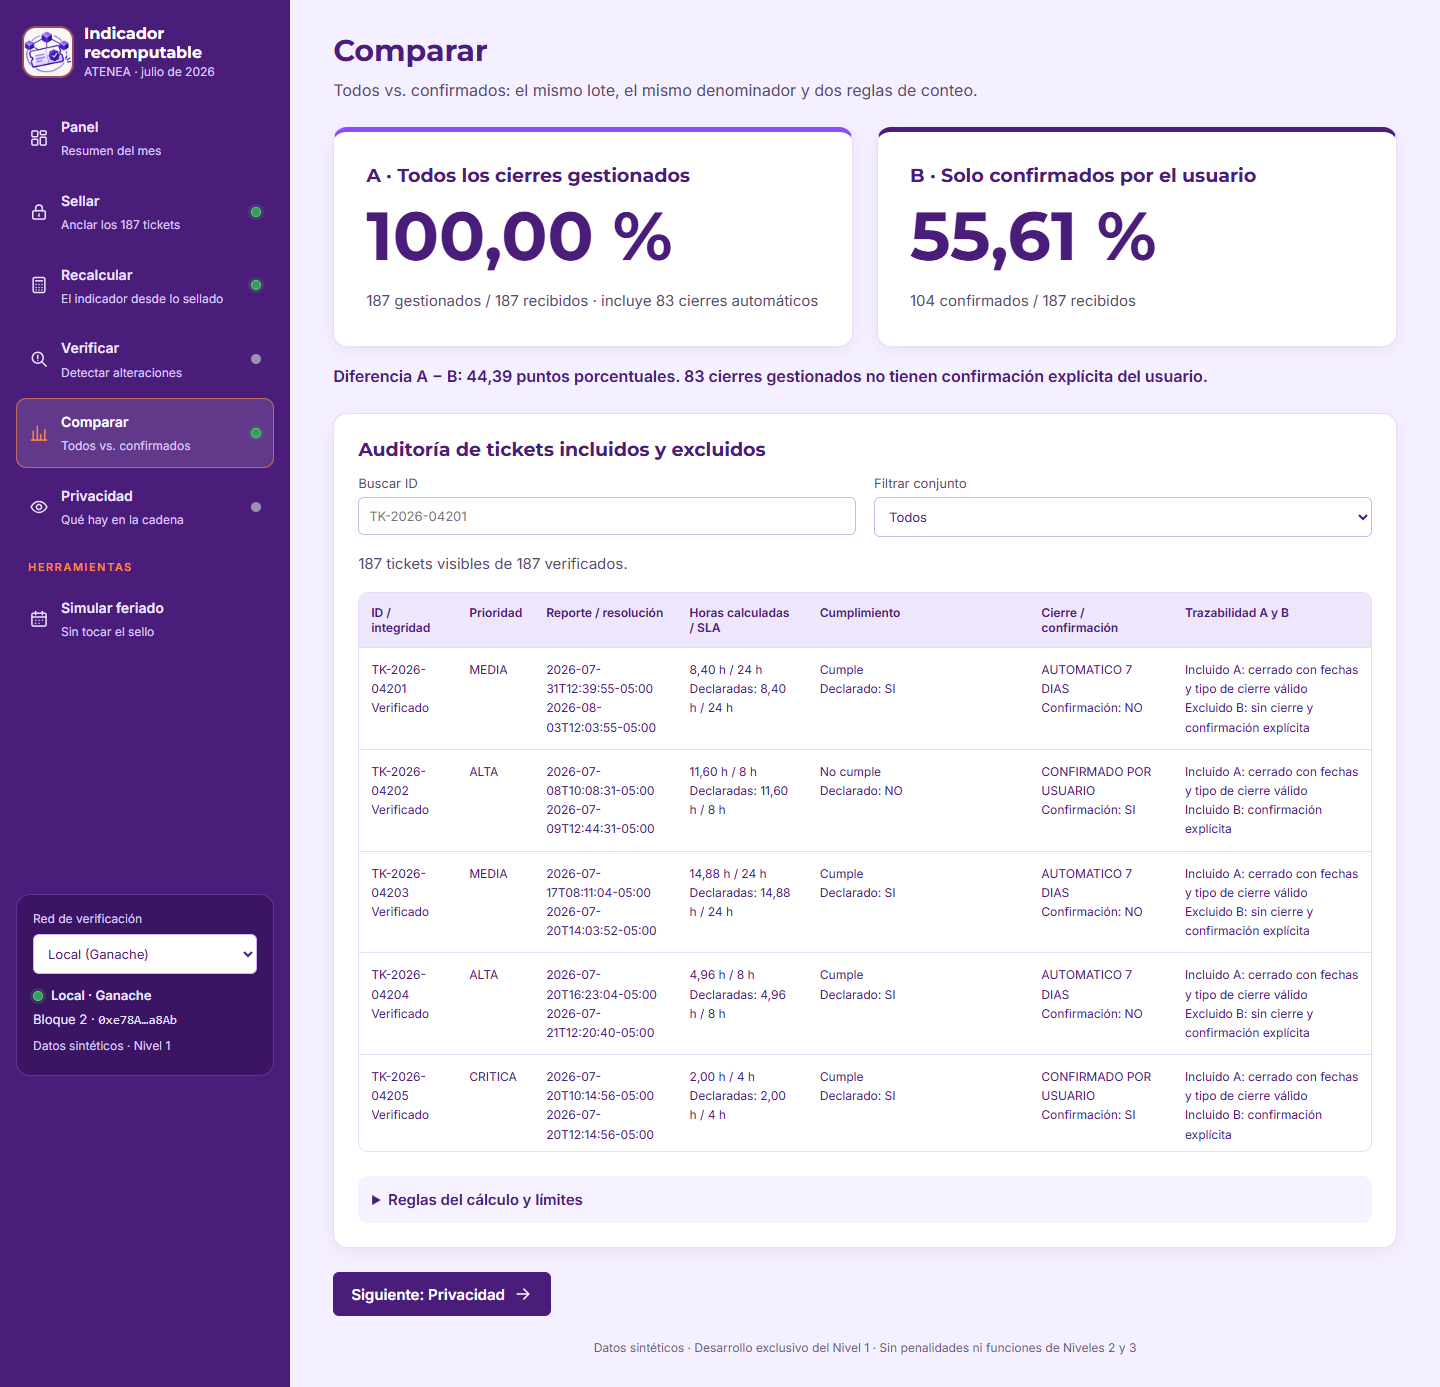
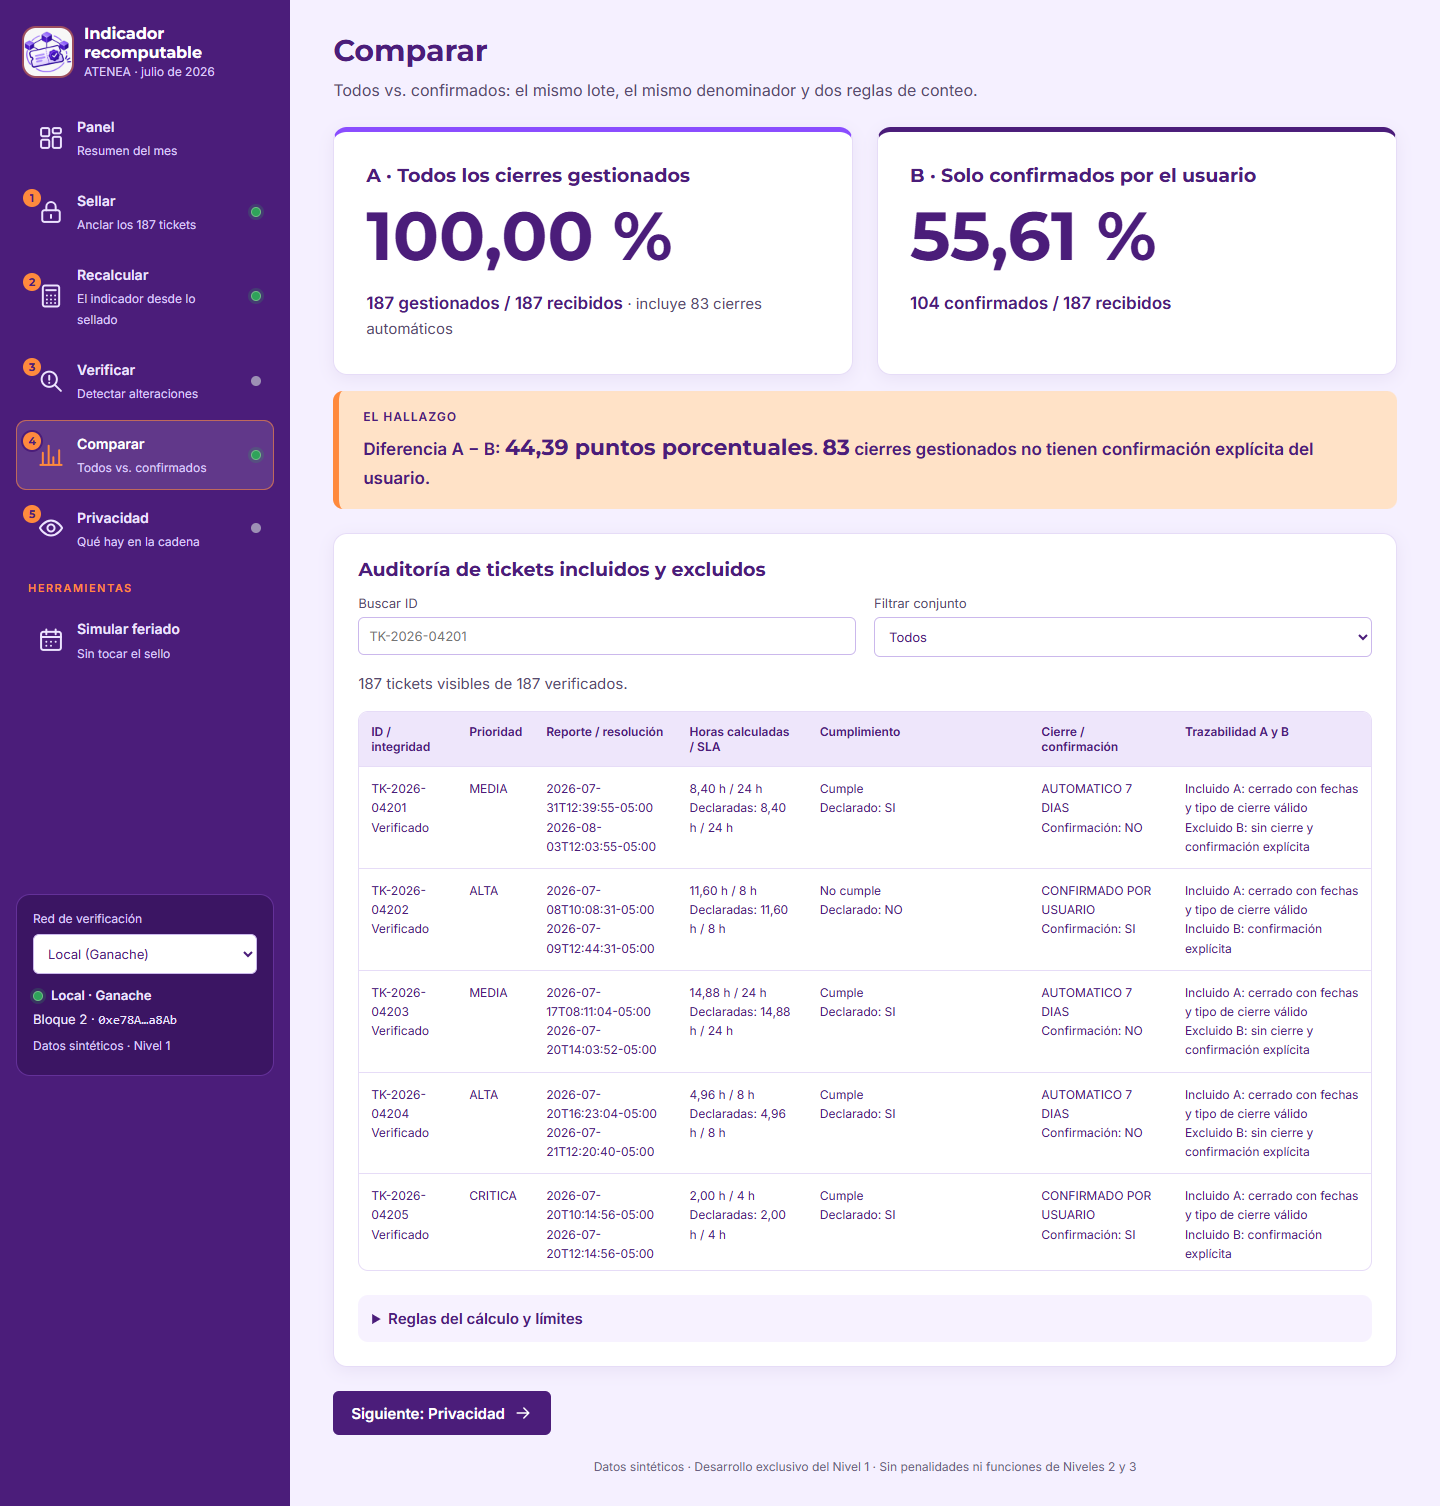
Fase 3B: demo guiada por los 5 criterios del jurado
- Menú: números 1-5 en los procesos e íconos SVG más grandes que el texto.
- Recalcular: veredicto «no da 98,25 %» con 55,61 % (104/187) y 100 % (187/187),
  todo calculado desde lo sellado (renderFindings), nada escrito a mano.
- Comparar: la brecha de 44,39 pp destacada como «el hallazgo»; fracciones en negrita.
- Privacidad: veredicto 0 usuarios / 0 técnicos / 0 contenido de ticket, a partir de
  la búsqueda real y de los 7 datos que guarda la cadena. «Consultar contrato» pasa a secundario.
- Panel: guion de 5 pasos con textos cortos; la nota pendiente dice qué pulsar.
- Plegables: «Respaldo del sello» (botón renombrado a «Descargar respaldo del sellado»)
  y «Verificar desde otro equipo» (evidencia y sal). Sin cambios de id ni de lógica.
- Auditoría en nivel1-v5-auditoria: 1, 2, 4 y 5 APROBADO; 3 aprobado en automático,
  pendiente de la edición manual.

diff --git a/src/index.html b/src/index.html
@@ -47,11 +47,11 @@
   <nav aria-label="Procesos de la demostración">
     <ul class="menu">
       <li><a href="#/panel" data-route="panel"><svg class="icon"><use href="#i-panel"/></svg><span class="item"><strong>Panel</strong><small>Resumen del mes</small></span></a></li>
-      <li><a href="#/sellar" data-route="sellar"><svg class="icon"><use href="#i-lock"/></svg><span class="item"><strong>Sellar</strong><small>Anclar los 187 tickets</small></span><span class="dot" data-dot="sellar" role="img" aria-label="Estado: pendiente"></span></a></li>
-      <li><a href="#/recalcular" data-route="recalcular"><svg class="icon"><use href="#i-calc"/></svg><span class="item"><strong>Recalcular</strong><small>El indicador desde lo sellado</small></span><span class="dot" data-dot="recalcular" role="img" aria-label="Estado: pendiente"></span></a></li>
-      <li><a href="#/verificar" data-route="verificar"><svg class="icon"><use href="#i-search"/></svg><span class="item"><strong>Verificar</strong><small>Detectar alteraciones</small></span><span class="dot" data-dot="verificar" role="img" aria-label="Estado: pendiente"></span></a></li>
-      <li><a href="#/comparar" data-route="comparar"><svg class="icon"><use href="#i-compare"/></svg><span class="item"><strong>Comparar</strong><small>Todos vs. confirmados</small></span><span class="dot" data-dot="comparar" role="img" aria-label="Estado: pendiente"></span></a></li>
-      <li><a href="#/privacidad" data-route="privacidad"><svg class="icon"><use href="#i-eye"/></svg><span class="item"><strong>Privacidad</strong><small>Qué hay en la cadena</small></span><span class="dot" data-dot="privacidad" role="img" aria-label="Estado: pendiente"></span></a></li>
+      <li><a href="#/sellar" data-route="sellar"><span class="menu-ico"><svg class="icon"><use href="#i-lock"/></svg><span class="menu-num" aria-hidden="true">1</span></span><span class="item"><strong>Sellar</strong><small>Anclar los 187 tickets</small></span><span class="dot" data-dot="sellar" role="img" aria-label="Estado: pendiente"></span></a></li>
+      <li><a href="#/recalcular" data-route="recalcular"><span class="menu-ico"><svg class="icon"><use href="#i-calc"/></svg><span class="menu-num" aria-hidden="true">2</span></span><span class="item"><strong>Recalcular</strong><small>El indicador desde lo sellado</small></span><span class="dot" data-dot="recalcular" role="img" aria-label="Estado: pendiente"></span></a></li>
+      <li><a href="#/verificar" data-route="verificar"><span class="menu-ico"><svg class="icon"><use href="#i-search"/></svg><span class="menu-num" aria-hidden="true">3</span></span><span class="item"><strong>Verificar</strong><small>Detectar alteraciones</small></span><span class="dot" data-dot="verificar" role="img" aria-label="Estado: pendiente"></span></a></li>
+      <li><a href="#/comparar" data-route="comparar"><span class="menu-ico"><svg class="icon"><use href="#i-compare"/></svg><span class="menu-num" aria-hidden="true">4</span></span><span class="item"><strong>Comparar</strong><small>Todos vs. confirmados</small></span><span class="dot" data-dot="comparar" role="img" aria-label="Estado: pendiente"></span></a></li>
+      <li><a href="#/privacidad" data-route="privacidad"><span class="menu-ico"><svg class="icon"><use href="#i-eye"/></svg><span class="menu-num" aria-hidden="true">5</span></span><span class="item"><strong>Privacidad</strong><small>Qué hay en la cadena</small></span><span class="dot" data-dot="privacidad" role="img" aria-label="Estado: pendiente"></span></a></li>
     </ul>
     <p class="menu-sep">Herramientas</p>
     <ul class="menu">
@@ -75,18 +75,18 @@
   <p id="headline" class="headline"><span class="hl-side"><span class="hl-label">Publicado</span> <strong class="hl-num">98,25 %</strong></span><span class="hl-vs"> · </span><span class="hl-side hl-b"><span class="hl-label">Solo confirmados por el usuario:</span> <strong class="hl-num hl-pending">pendiente de verificación</strong></span></p>
   <div class="stats">
     <article class="card stat"><h2>Estado del sello</h2><p class="stat-value" id="sumSeal">Sin sello</p><p class="hashline"><span id="sumSealTx" class="hash">—</span><button class="copy" type="button" data-ui data-copy="sumSealTx" aria-label="Copiar transacción del sello"><svg class="icon"><use href="#i-copy"/></svg></button></p></article>
-    <article class="card stat"><h2>Última verificación</h2><p class="stat-value"><span id="sumVerify" class="pill gray">Pendiente</span></p><p class="small" id="sumVerifyNote">Todavía no se verificó en esta sesión.</p></article>
+    <article class="card stat"><h2>Última verificación</h2><p class="stat-value"><span id="sumVerify" class="pill gray">Pendiente</span></p><p class="small" id="sumVerifyNote">Pulsa «Recalcular desde lo sellado» en el paso 2.</p></article>
     <article class="card stat"><h2>Tickets sellados</h2><p class="stat-value" id="sumCount">—</p><p class="small">Cantidad registrada en la cadena.</p></article>
     <article class="card stat"><h2>Brecha A − B</h2><p class="stat-value" id="sumGap">—</p><p class="small">Puntos porcentuales entre todos los cierres y los confirmados.</p></article>
   </div>
   <div class="card">
     <h2>Guion de la demo</h2>
     <ol id="demoScript" class="script">
-      <li data-step="1"><span class="check" role="img" aria-label="Pendiente"><svg class="icon"><use href="#i-check"/></svg></span><span><a href="#/sellar">Sellar los 187 tickets</a><small>Cargar los originales y anclar el compromiso en la cadena.</small></span></li>
-      <li data-step="2"><span class="check" role="img" aria-label="Pendiente"><svg class="icon"><use href="#i-check"/></svg></span><span><a href="#/recalcular">Recalcular el indicador</a><small>Desde lo sellado: cascada 187 → 171, bitácora y reaperturas.</small></span></li>
-      <li data-step="3"><span class="check" role="img" aria-label="Pendiente"><svg class="icon"><use href="#i-check"/></svg></span><span><a href="#/verificar">Detectar una alteración</a><small>Un CSV editado da ROJO con el ticket y el campo.</small></span></li>
-      <li data-step="4"><span class="check" role="img" aria-label="Pendiente"><svg class="icon"><use href="#i-check"/></svg></span><span><a href="#/comparar">Comparar A contra B</a><small>Todos los cierres frente a los confirmados por el usuario.</small></span></li>
-      <li data-step="5"><span class="check" role="img" aria-label="Pendiente"><svg class="icon"><use href="#i-check"/></svg></span><span><a href="#/privacidad">Revisar la privacidad</a><small>Buscar datos personales en la cadena: 0 coincidencias.</small></span></li>
+      <li data-step="1"><span class="check" role="img" aria-label="Pendiente"><svg class="icon"><use href="#i-check"/></svg></span><span><a href="#/sellar">Sellar julio</a><small>Los <strong>187</strong> tickets quedan anclados en la blockchain.</small></span></li>
+      <li data-step="2"><span class="check" role="img" aria-label="Pendiente"><svg class="icon"><use href="#i-check"/></svg></span><span><a href="#/recalcular">Recalcular</a><small>Desde lo sellado: <strong>no da 98,25 %</strong>.</small></span></li>
+      <li data-step="3"><span class="check" role="img" aria-label="Pendiente"><svg class="icon"><use href="#i-check"/></svg></span><span><a href="#/verificar">Detectar una alteración</a><small>Un CSV editado a mano da <strong>ROJO</strong> y señala el ticket.</small></span></li>
+      <li data-step="4"><span class="check" role="img" aria-label="Pendiente"><svg class="icon"><use href="#i-check"/></svg></span><span><a href="#/comparar">Comparar</a><small>Todos los cierres frente a solo los confirmados.</small></span></li>
+      <li data-step="5"><span class="check" role="img" aria-label="Pendiente"><svg class="icon"><use href="#i-check"/></svg></span><span><a href="#/privacidad">Privacidad</a><small>Ningún nombre ni contenido de ticket en la cadena.</small></span></li>
     </ol>
   </div>
   <aside class="notice"><strong>Universo del reto: los 187 tickets originales.</strong> <span id="scopeNote">El lote incluye reportes fuera de julio. Los conteos se muestran al validar los originales. Se usa el estado final del lote, no un corte calendario estricto.</span></aside>
@@ -96,7 +96,7 @@
   <header class="viewhead"><h1 id="t-sellar" tabindex="-1">Sellar</h1><p>Anclar en la cadena el compromiso de los 187 tickets de julio, sin datos personales.</p></header>
   <div class="card">
     <p>Se valida cada archivo contra la huella de la carpeta fuente verificada. Cada columna de los tickets participa en el compromiso; del catálogo, el reporte publicado, la bitácora y las reaperturas solo entra su SHA-256. Una verificación posterior no puede cambiar el sello.</p>
-    <div class="actions"><button id="load">Cargar los originales entregados</button><button id="seal" disabled>Sellar julio en blockchain</button><button id="export" class="secondary" disabled>Descargar evidencia original</button></div>
+    <div class="actions"><button id="load">Cargar los originales entregados</button><button id="seal" disabled>Sellar julio en blockchain</button></div>
     <details><summary>Seleccionar los originales a mano</summary>
       <p class="small">Sus huellas deben coincidir con las de la carpeta fuente verificada.</p>
       <div class="inputs">
@@ -110,6 +110,10 @@
     </details>
     <output id="sealStatus" class="status pending" aria-live="polite">Sin sellado comprobado.</output>
     <div id="commitment" class="factbox"></div>
+    <details><summary>Respaldo del sello</summary>
+      <p class="small">Copia del manifiesto con la huella de los 187 tickets. La app ya la guarda sola en este equipo; solo hace falta para verificar desde otro equipo.</p>
+      <button id="export" class="secondary" disabled>Descargar respaldo del sellado</button>
+    </details>
   </div>
   <a class="next" href="#/recalcular" data-next="sellar" hidden>Siguiente: Recalcular <svg class="icon"><use href="#i-arrow"/></svg></a>
 </section>
@@ -123,6 +127,7 @@
     <p id="explanation" class="small"></p>
   </div>
   <div id="findings" hidden>
+    <div id="recalcVerdict" class="verdict" aria-live="polite"></div>
     <div class="card">
       <h2>¿De dónde sale el 171 publicado?</h2>
       <div id="cascade" class="cascade"></div>
@@ -144,8 +149,12 @@
 <section id="s3" class="view" data-route="verificar" aria-labelledby="t-verificar" hidden>
   <header class="viewhead"><h1 id="t-verificar" tabindex="-1">Verificar</h1><p>Detectar alteraciones: cualquier cambio en el CSV, por pequeño que sea, da ROJO con el ticket y el campo.</p></header>
   <div class="card">
-    <div class="inputs"><label>CSV que se va a verificar<input id="verifyFile" type="file" accept=".csv"></label><label>Importar evidencia original, si cambiaste de navegador<input id="evidenceFile" type="file" accept=".json"></label><label>Importar la sal secreta del sello (sal-202607.json)<input id="saltFile" type="file" accept=".json,.txt"></label></div>
+    <div class="inputs"><label>CSV que se va a verificar<input id="verifyFile" type="file" accept=".csv"></label></div>
     <p id="saltStatus" class="small">Sal secreta: pendiente.</p>
+    <details><summary>Verificar desde otro equipo</summary>
+      <p class="small">En el equipo donde se selló, la evidencia y la sal se cargan solas. En otro equipo o navegador, impórtalas aquí.</p>
+      <div class="inputs"><label>Importar evidencia original (respaldo del sellado)<input id="evidenceFile" type="file" accept=".json"></label><label>Importar la sal secreta del sello (sal-202607.json)<input id="saltFile" type="file" accept=".json,.txt"></label></div>
+    </details>
     <button id="verify">Verificar nuevamente contra blockchain</button>
     <p class="small">Para la demostración, abre una copia de datos/tickets.csv, cambia fecha_resolucion de un ticket, guarda y carga esa copia. El verificador nunca sella ni reemplaza la evidencia.</p>
     <div class="slot" data-slot="verification"></div>
@@ -178,7 +187,7 @@
     <p>Solo período, raíz criptográfica, compromiso de la evidencia, cantidad, marca de tiempo y hash de reglas. La cadena también publica las direcciones del contrato y del emisor, el bloque y los datos propios de una transacción EVM.</p>
     <p>Los nombres de usuarios y técnicos, las unidades, los actores de la bitácora y el contenido de los tickets permanecen fuera de la cadena. El manifiesto contiene IDs y hashes con sal secreta, se conserva localmente y permite localizar cambios; no se publica en una transacción.</p>
     <p id="networkNote" class="small">Local: EVM de desarrollo en este equipo, sirve de respaldo sin internet. Sepolia: lectura pública sin wallet ni credenciales.</p>
-    <div class="actions"><button id="inspect">Consultar contrato y transacción</button><button id="searchPersonal">Buscar datos personales en la cadena</button></div>
+    <div class="actions"><button id="inspect" class="secondary">Consultar contrato y transacción</button><button id="searchPersonal">Buscar datos personales en la cadena</button></div>
     <div id="personal" aria-live="polite"></div>
     <div id="privacy" class="factbox"><p class="small">Pendiente de consulta real.</p></div>
     <p id="explorer" class="explorer"></p>

diff --git a/src/style.css b/src/style.css
@@ -155,7 +155,25 @@ main {
   border-color: rgba(255, 138, 61, 0.6);
   color: #fff;
 }
-.menu a[aria-current="page"] > .icon { color: var(--mint); }
+.menu a[aria-current="page"] .icon { color: var(--mint); }
+/* Íconos del menú más grandes que el texto, con el número del paso de la demo. */
+.menu .icon { width: 28px; height: 28px; stroke-width: 1.7; }
+.menu-ico { position: relative; display: inline-grid; flex: none; margin-left: 8px; }
+.menu a > .icon { margin-left: 8px; }
+.menu-num {
+  position: absolute;
+  top: -9px;
+  left: -14px;
+  min-width: 18px;
+  height: 18px;
+  padding: 0 4px;
+  border-radius: 999px;
+  background: var(--action);
+  color: var(--on-action);
+  font: 700 11px/18px var(--font-display);
+  text-align: center;
+  box-shadow: 0 0 0 2px var(--navy);
+}
 .menu .item { flex: 1; min-width: 0; }
 .menu .item strong { display: block; font-size: 14px; }
 .menu .item small { display: block; font-size: 12px; color: var(--ice); margin-top: 1px; }
@@ -482,7 +500,34 @@ tr.flip td { background: var(--cream); font-weight: 600; }
 .indicators .card { border-top: 5px solid var(--accent); margin: 0; padding: var(--space-6); }
 .indicators .card:last-child { border-top-color: var(--navy); }
 .percent { display: block; font-family: var(--font-display); font-size: clamp(44px, 6vw, 68px); line-height: 1.1; color: var(--ink); margin: var(--space-3) 0; }
-.gapline { font-size: 16px; font-weight: 600; color: var(--navy); margin: var(--space-4) 0 var(--space-5); }
+/* La brecha A − B es el hallazgo: recuadro crema con la cifra destacada. */
+.gapline { font-size: 17px; font-weight: 600; line-height: 1.6; color: var(--navy); margin: var(--space-4) 0 var(--space-5); padding: var(--space-4) var(--space-5); border-radius: var(--radius); border-left: 6px solid var(--action); background: var(--cream); }
+.gapline::before { content: "El hallazgo"; display: block; margin-bottom: var(--space-1); font-size: 12px; font-weight: 700; letter-spacing: 1px; text-transform: uppercase; color: var(--ink); }
+.gapline strong { font-family: var(--font-display); font-size: 22px; font-weight: 700; color: var(--ink); }
+.indicators p strong { font-size: 17px; color: var(--ink); }
+
+/* Veredicto grande de cada criterio (Recalcular y Privacidad). */
+.verdict {
+  margin: 0 0 var(--space-5);
+  padding: var(--space-5);
+  border-radius: var(--radius-lg);
+  border: 1px solid var(--border);
+  border-left: 6px solid var(--action);
+  background: var(--surface);
+  box-shadow: var(--shadow);
+}
+.verdict:empty { display: none; }
+.verdict p { margin: 0 0 var(--space-2); }
+.verdict p:last-child { margin-bottom: 0; }
+.verdict-main { font-family: var(--font-display); font-size: clamp(20px, 2.6vw, 28px); font-weight: 700; line-height: 1.3; color: var(--ink); }
+.verdict-main strong { font-size: 1.15em; color: var(--ink); }
+.verdict-sub { font-size: 17px; color: var(--text); }
+.verdict-sub strong { font-family: var(--font-display); font-size: 20px; color: var(--ink); }
+.verdict-label { font-size: 13px; font-weight: 700; letter-spacing: 1px; text-transform: uppercase; color: var(--ink); }
+.verdict-list { list-style: none; margin: 0 0 var(--space-3); padding: 0; display: grid; grid-template-columns: repeat(auto-fit, minmax(min(180px, 100%), 1fr)); gap: var(--space-3); line-height: 1.3; }
+.verdict-list li { display: flex; align-items: baseline; gap: var(--space-2); padding: var(--space-3) var(--space-4); border-radius: var(--radius); background: var(--surface-soft); border: 1px solid var(--border); color: var(--text); font-weight: 600; }
+.verdict-list strong { font-family: var(--font-display); font-size: 34px; line-height: 1; color: var(--ink); }
+.script small strong { color: var(--ink); }
 
 /* Reglas del cálculo: una ficha por tema, con etiqueta y valor. */
 .rules { display: grid; grid-template-columns: repeat(auto-fit, minmax(min(300px, 100%), 1fr)); gap: var(--space-4); margin: var(--space-4) 0; }

diff --git a/docs/AUDITORIA.md b/docs/AUDITORIA.md
@@ -1,6 +1,6 @@
 # Auditoría Nivel 1 — Reto 03
 
-Ejecución UTC: 2026-11-12T02:16:36.564Z → 2026-11-12T02:17:28.429Z. Zona de presentación: America/Guayaquil.
+Ejecución UTC: 2026-11-12T04:08:32.936Z → 2026-11-12T04:09:54.331Z. Zona de presentación: America/Guayaquil.
 
 Resultado: **NIVEL 1 NO DECLARADO COMPLETO**.
 
